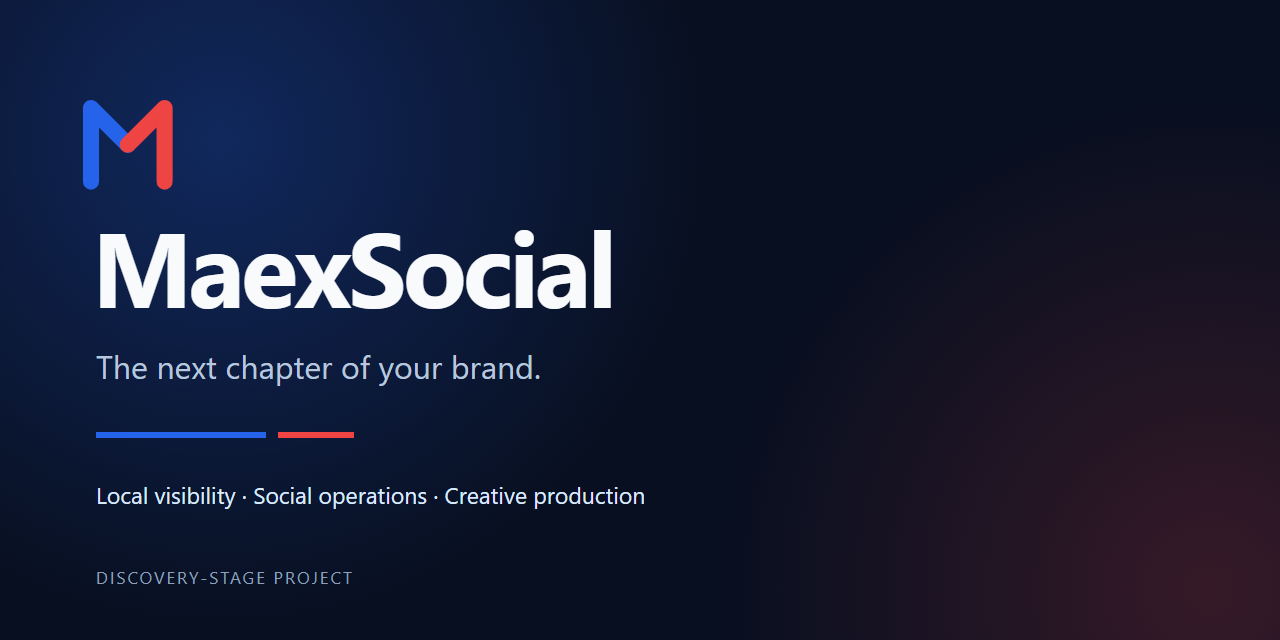
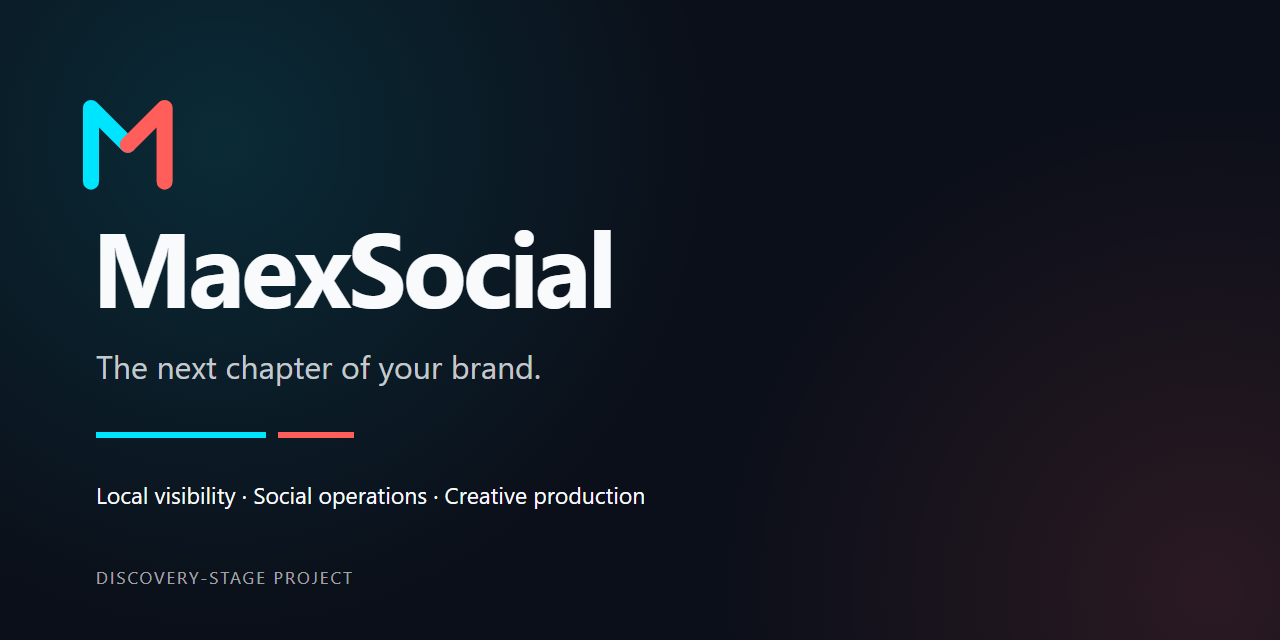
design: apply the Deep Tech brand palette

diff --git a/docs/15_README_STRATEGY.md b/docs/15_README_STRATEGY.md
@@ -1,22 +1,51 @@
 # Brand, README and assets
 
-The README explains the product direction, current evidence and next useful action. Product goals stay labeled as planned until implementation and acceptance evidence exist. Maxi selected blue and red as the principal brand colors on 2026-11-05.
+The README explains the product direction, current evidence and next useful action. Product goals stay labeled as planned until implementation and acceptance evidence exist. On 2026-11-05 Maxi selected the exact **Deep Tech (Dark Mode)** palette below, replacing the initial blue/red shades. This is the approved color direction for repository artwork and the future application.
 
 ## Visual identity
 
-Use a dark navy canvas, generous spacing and a split blue/red M. Blue anchors the identity; red adds emphasis. Keep both colors visible without using a gradient for text. This is the repository identity, not a decision about the future application's component framework.
+Use a Midnight canvas, Dark Slate cards, generous spacing and a split Cyan-Electric/Warm Coral M. Cyan anchors the identity; coral adds emphasis. Keep both colors visible without using a gradient for text. The palette does not select a component framework or approve the full G2 application design.
 
 | Token | Value | Use |
 |---|---|---|
-| Blue | `#2563EB` | Primary brand accent, marks and strokes |
-| Red | `#EF4444` | Secondary brand accent, marks and strokes |
-| Navy | `#080F20` | Artwork background |
-| White | `#F8FAFC` | Headings on navy |
-| Body | `#B9C7DE` | Supporting text on navy |
-| Muted | `#8CA0BD` | Labels on navy |
-| Red text | `#B91C1C` | Small red text on white or a badge with white text |
+| Primary — Electric Blue / Cyan-Electric | `#00E5FF` | Primary actions, links on dark surfaces, marks and strokes |
+| Accent — Coral Red / Warm Coral | `#FF5E5B` | Highlights, secondary emphasis and brand accents |
+| Base — Midnight | `#0B0F19` | Page/artwork background and text/icons on filled accents |
+| Surface — Dark Slate | `#161F30` | Cards and panels |
+| Text — Off-White | `#F8FAFC` | Primary text on Base and Surface |
 
-Use Segoe UI with Arial and sans-serif fallbacks in SVG text. All explanatory content also appears as ordinary README text. Color never carries a status on its own. Brand red is an accent: it does not meet 4.5:1 against white for small text. Check contrast against the actual composed background when adding text or gradients.
+Use these semantic names when implementing the approved application design:
+
+```css
+--color-primary: #00E5FF;
+--color-accent: #FF5E5B;
+--color-base: #0B0F19;
+--color-surface: #161F30;
+--color-text: #F8FAFC;
+```
+
+These are design specifications; no application theme or component library is implemented yet. Current SVGs are self-contained and use the same five colors directly. Supporting artwork text uses Off-White at 78% opacity, labels at 64%; decorative lines and glows use reduced opacity. Recheck composed colors if the background or opacity changes. GitHub's own light/dark page theme is controlled by GitHub.
+
+Use Segoe UI with Arial and sans-serif fallbacks in SVG text. All explanatory content also appears as ordinary README text. Color never carries a status on its own. Coral is a brand accent, not automatically the error state; future error/success/warning treatments need text or icons and separate semantic design.
+
+### Contrast and future controls
+
+Calculated solid sRGB pairs on 2026-11-05, displayed to two decimals:
+
+| Foreground / background | Contrast | Intended use |
+|---|---|---|
+| Text / Base | 18.30:1 | Page text |
+| Text / Surface | 15.77:1 | Card text |
+| Primary / Surface | 10.73:1 | Links and emphasis on dark panels |
+| Accent / Surface | 5.50:1 | Coral text on dark panels |
+| Base / Primary | 12.45:1 | Text/icons on cyan-filled elements |
+| Base / Accent | 6.39:1 | Text/icons on coral-filled elements |
+
+Use Midnight text/icons on filled cyan or coral elements. Off-White on Primary is only 1.47:1 and on Accent 2.87:1, so those combinations are unsuitable for readable labels. Surface against Base is only 1.16:1: use a sufficiently contrasting boundary or another identifying cue where users must recognize a control. Focus indicators, hover states and validation states must be checked on their actual adjacent colors during implementation. Do not rely on a low-opacity decorative card stroke as a control boundary.
+
+README metadata badges use Base/Surface backgrounds because Shields renders their text in white. The live CI badge retains its provider-generated status colors.
+
+Normal text requires at least 4.5:1; meaningful control indicators require 3:1 against adjacent colors under the relevant WCAG criteria. These pair calculations do not establish application accessibility. References: [WCAG text contrast](https://www.w3.org/WAI/WCAG22/Understanding/contrast-minimum.html), [WCAG non-text contrast](https://www.w3.org/WAI/WCAG22/Understanding/non-text-contrast.html).
 
 ## Asset inventory
 
@@ -24,8 +53,8 @@ All artwork is original MaexSocial vector work, authored for this repository and
 
 | Asset | Size | Purpose |
 |---|---|---|
-| [Logo mark](../.github/assets/logo-mark.svg) | 128 × 128 | Compact identity on its own navy tile |
-| [Wordmark](../.github/assets/logo-wordmark.svg) | 580 × 110 | Name and mark on navy |
+| [Logo mark](../.github/assets/logo-mark.svg) | 128 × 128 | Compact identity on its own Midnight tile |
+| [Wordmark](../.github/assets/logo-wordmark.svg) | 580 × 110 | Name and mark on Midnight |
 | [README banner](../.github/assets/banner.svg) | 1280 × 560 | Brand introduction and clearly labeled concept art |
 | [Workflow](../.github/assets/flow.svg) | 1200 × 320 | Planned facts → create → publish → learn sequence |
 | [Social preview source](../.github/assets/social-preview.svg) | 1280 × 640 | Editable repository-sharing artwork |
@@ -43,6 +72,6 @@ Layout references inspected on 2026-11-05 were [Supabase](https://github.com/sup
 
 ## Verification and maintenance
 
-Before merging asset changes, parse every SVG, inspect the actual rendered artwork and review the README at desktop and narrow widths. Verify local images as well as Markdown links. Check that navy artwork remains legible within light and dark page surroundings. Keep PNG exports synchronized with their SVG source.
+Before merging asset changes, parse every SVG, inspect the actual rendered artwork and review the README at desktop and narrow widths. Verify local images as well as Markdown links. Check that Midnight artwork remains legible within light and dark page surroundings. Keep PNG exports synchronized with their SVG source.
 
 Update README and status when a gate passes. Add real product screenshots only after the application produces them. Store temporary rendering files in ignored `work/`. Record verification results in the change's PR.

diff --git a/docs/01_STATUS.md b/docs/01_STATUS.md
@@ -40,6 +40,8 @@ The first web-tool dashboard request failed, but a subsequent unauthenticated HT
 
 ## Decisions and operating state
 
+Maxi selected the exact Deep Tech dark palette on 2026-11-05: Cyan-Electric `#00E5FF`, Warm Coral `#FF5E5B`, Midnight `#0B0F19`, Dark Slate `#161F30` and Off-White `#F8FAFC`. [Issue #38](https://github.com/Maeximilion/MaexSocial/issues/38) aligns the repository artwork and [brand guide](15_README_STRATEGY.md); the future application must use the same color roles.
+
 MaexSocial's name and public repository visibility are confirmed by Maxi. Public research reports are sanitized. Reference-repository conventions are adapted to this project. Code-autopilot and caveman remain disabled. Under Maxi's delegated choice, TypeScript strict is the application-language baseline; [ADR 0001](decisions/0001-application-language.md) records the rationale. Framework, runtime version, provider and deployment choices remain at G2. Software implementation follows independent Claude REA, synthesis and approved design.
 
 Maxi confirmed a public website with customer registration/login and separate platform-administrator access on 2026-11-05. Administrators must see and manage customers; customer workspaces remain isolated. Proposed security controls and fourteen named acceptance cases are recorded for G2, not implemented or runtime-tested.

diff --git a/README.md b/README.md
@@ -6,8 +6,8 @@
 <p align="center">AI-powered local visibility, social operations and creative production.</p>
 <p align="center">
   <a href="https://github.com/Maeximilion/MaexSocial/actions/workflows/ci.yml"><img src="https://github.com/Maeximilion/MaexSocial/actions/workflows/ci.yml/badge.svg" alt="Foundation CI"></a>
-  <a href="https://github.com/users/Maeximilion/projects/5"><img src="https://img.shields.io/badge/Project-delivery_board-2563EB" alt="Project delivery board"></a>
-  <a href="docs/01_STATUS.md"><img src="https://img.shields.io/badge/Stage-G1_discovery-B91C1C" alt="Stage G1 discovery"></a>
+  <a href="https://github.com/users/Maeximilion/projects/5/views/2"><img src="https://img.shields.io/badge/Project-delivery_board-161F30?labelColor=0B0F19" alt="Project delivery board"></a>
+  <a href="docs/01_STATUS.md"><img src="https://img.shields.io/badge/Stage-G1_discovery-161F30?labelColor=0B0F19" alt="Stage G1 discovery"></a>
 </p>
 <p align="center">
   <a href="docs/README.md">Documentation</a> ·

diff --git a/docs/README.md b/docs/README.md
@@ -16,7 +16,7 @@ Start with [status](01_STATUS.md), then the [project charter](00_PCF.md) and [wo
 | [09 Operations and legal](09_OPERATIONS_LEGAL.md) | Research handling, credentials and operating decisions |
 | [10 Glossary](10_GLOSSARY.md) | Shared terminology |
 | [12 Playbooks](12_CLAUDE_CODE_PLAYBOOKS.md) | Session, task, review, gate and handover workflows |
-| [15 Brand and assets](15_README_STRATEGY.md) | Blue/red identity, original assets and honest README presentation |
+| [15 Brand and assets](15_README_STRATEGY.md) | Deep Tech palette, contrast rules, original assets and honest README presentation |
 | [16 GitHub project](16_GITHUB_PROJECT.md) | Project fields, metadata and maintenance |
 | [17 Access and security](17_ACCESS_SECURITY.md) | Public registration, customer isolation and separate platform administration |
 | [ADR 0001 Application language](decisions/0001-application-language.md) | Delegated TypeScript strict choice and runtime-validation boundaries |

diff --git a/docs/handovers/build.md b/docs/handovers/build.md
@@ -8,6 +8,8 @@ Decisions — Reuse the established repository process and [TypeScript strict la
 
 Gate — MS-008 approves design, MS-009 supplies a concrete implementation plan, MS-010 implements and proves G3.
 
+Visual direction — Use Maxi's selected [Deep Tech dark palette](../15_README_STRATEGY.md): primary `#00E5FF`, accent `#FF5E5B`, base `#0B0F19`, surface `#161F30`, text `#F8FAFC`. Follow its contrast rules, including Midnight text on filled accents. The palette is settled; component layout, interaction states and accessibility tests remain G2/G3 work.
+
 Access prerequisite — Include MS-013 and [registration/customer/admin security requirements](../17_ACCESS_SECURITY.md) in G2. Map accepted ACCESS-01–14 cases into the executable plan, alongside [CI/CD and release checks](../08_EVALS.md). A foundation CI pass does not authorize externally accessible customer operation.
 
 Open — Confirm G1 evidence and the actual G2 decision before application scaffolding.

diff --git a/CHANGELOG.md b/CHANGELOG.md
@@ -2,6 +2,8 @@
 
 ## Unreleased
 
+- Adopt Maxi's Deep Tech dark palette across brand artwork and README badges; document accessible color pairings for the future application.
+
 - Add named Overview and Delivery board Project views, with status columns and planning fields.
 - Extend automatic PR metadata and dedicated dependency-task Development links while preserving manual planning choices.
 - Choose TypeScript strict as the application-language baseline under delegated technology selection; retain G2 design and REA sequencing.
